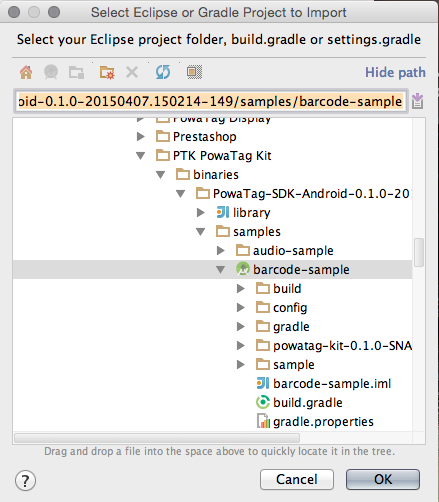
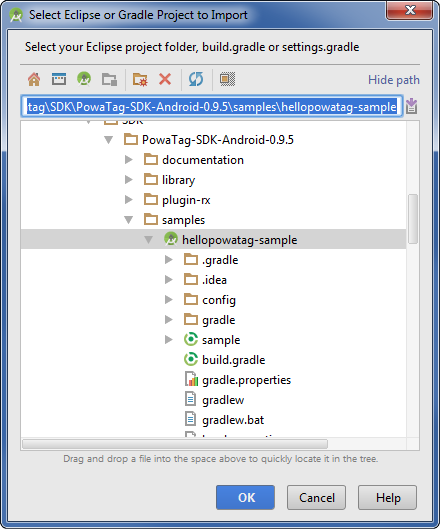
start and act updates 0.9.5

diff --git a/tag-mobile-sdks/ios/acts.md b/tag-mobile-sdks/ios/acts.md
@@ -11,27 +11,101 @@ The "Act Now" functionality provides users with a means to respond to a merchant
  - Book a viewing of a painting at an art gallery.
 
 When a merchant creates an Act campaign they specify the information they require from the user which is then stored as a template on the server. 
-When a user interacts with the PowaTag trigger for the act campaign they are prompted to provide this information which is then sent to the merchant. 
+When a user interacts with the PowaTag trigger for the act campaign they need to be prompted to provide this information which is then sent to the merchant. 
 
-WIP 
-===
+<br/>
 
-# Retrieve the Act
+# Retrieving the Act Data Keys
 
-Obtain the act from the workflow and 
+1. Get the act from the workflow. (see the [Workflow]({{site.baseurl}}/tag-mobile-sdks/android/workflows) for more details):
+
+	<pre>Act act = workflow.getAct();</pre>
+	
+2. Get the act data keys:
+	
+	The data needed to display the custom field to the user is stored in <code>ActDataKey</code> 
+
+	<pre>for (ActDataKey actDataKey : act.getActDataKeys()) {
+		// Retrieve the key identifier for this custom value
+		String key = actDataKey.getKey();
+		
+		// Retrieve the display name of the custom value
+		String name = actDataKey.getName();
+		
+		// Retrieve the data type the must be returned to the SDK. valid types are String, Timestamp, Email,Flag
+		ActDataType actDataType = actDataKey.getType();
+		
+		// Retrieve the optional predefined value to display to the user
+		String value = actDataKey.getPredefinedValue();
+		
+		// Retrieve the flag indicating if this is an optional field
+		boolean optional = actDataKey.isOptional();
+	}</pre>
+
+<br/>
+	
+# Adding an Act Data Value
+
+1. Create a <code>ActTransactionDetails</code>:
+
+	<pre>ActTransactionDetails actTransactionDetails = new ActTransactionDetails();</pre>
+
+2. Add the values supplied by the user for each <code>ActDataKey</code>:
+
+	Values must be added for at least each mandatory act data key.
+	
+	<pre>// Add the user's value as a string
+	actTransactionDetails.addActDataValue(actDataKey, userValueString);</pre>
+	
+<br/>	
+
+# Removing an Act Data Value
+
+1. To remove a stored user value:
+	
+	<pre>boolean valueRemoved = actTransactionDetails.removeActDataValue(actDatakey);</pre>	
+	
+<br/>
+
+# Removing All Act Data Values
+
+1. To clear <code>ActTransactionDetails</code> of all act data values:
+	
+	<pre>actTransactionDetails.clearActDataValues();</pre>	
+	
+<br/>
+
+# Obtaining All Act Data Values
+
+1. To obtain all act data values added to <code>ActTransActionDetails</code>:
+	
+	<pre>Map<String, String> actDataValues = actTransactionDetails.getActDataValues();</pre>	
+	
+<br/>
+		
+# Submit the Act Transaction Details
+
+1. Submit the act transaction details using the <code>ActManager</code>:
+	
+	<pre>ActManager actManager = ActManager.getinstance();
+	// submit the transaction and keep the transaction ID stored in actTransaction
+	ActTransaction actTransaction = actManager.submitTransaction(act, actTransactionDetails,new PowaTagCallback&lt;ActTransaction&gt;());</pre>
+	
+
+<br/>
+
+# Useful Act Methods
+
+1. The following methods can be used to obtian useful act information:
+
+	<pre>// Get the ID of the act.
+	String actId = act.getActId();
+	
+	// Get the name of the act.
+	String actName = act.getName();
  
- 	<pre>Act act = workflow.getAct();
-	for (ActDataKey actDataKey : act.getActDataKeys()) {
-		ActField<?> actField = fieldGenerators.get(actDataKey.getType()).generate(actDataKey);
-		actDataFields.put(actDataKey, actField);
-		actInformationContainer.addView(actField.getView(), layoutParams);
-        }
-    }</pre>
-
-# Present the Act Data Fields to the User
-
-
-# Validate the Data Fields
-
-
-# Submit the Act Transaction
+	// Get the merchant running the act.
+	Merchant merchant = act.getMerchant();
+    
+    // Get the List of act data keys.
+	List<ActDataKey> actDataKeys = act.getActDataKeys();</pre>

diff --git a/tag-mobile-sdks/wp/acts.md b/tag-mobile-sdks/wp/acts.md
@@ -11,27 +11,101 @@ The "Act Now" functionality provides users with a means to respond to a merchant
  - Book a viewing of a painting at an art gallery.
 
 When a merchant creates an Act campaign they specify the information they require from the user which is then stored as a template on the server. 
-When a user interacts with the PowaTag trigger for the act campaign they are prompted to provide this information which is then sent to the merchant. 
+When a user interacts with the PowaTag trigger for the act campaign they need to be prompted to provide this information which is then sent to the merchant. 
 
-WIP 
-===
+<br/>
 
-# Retrieve the Act
+# Retrieving the Act Data Keys
 
-Obtain the act from the workflow and 
+1. Get the act from the workflow. (see the [Workflow]({{site.baseurl}}/tag-mobile-sdks/android/workflows) for more details):
+
+	<pre>Act act = workflow.getAct();</pre>
+	
+2. Get the act data keys:
+	
+	The data needed to display the custom field to the user is stored in <code>ActDataKey</code> 
+
+	<pre>for (ActDataKey actDataKey : act.getActDataKeys()) {
+		// Retrieve the key identifier for this custom value
+		String key = actDataKey.getKey();
+		
+		// Retrieve the display name of the custom value
+		String name = actDataKey.getName();
+		
+		// Retrieve the data type the must be returned to the SDK. valid types are String, Timestamp, Email,Flag
+		ActDataType actDataType = actDataKey.getType();
+		
+		// Retrieve the optional predefined value to display to the user
+		String value = actDataKey.getPredefinedValue();
+		
+		// Retrieve the flag indicating if this is an optional field
+		boolean optional = actDataKey.isOptional();
+	}</pre>
+
+<br/>
+	
+# Adding an Act Data Value
+
+1. Create a <code>ActTransactionDetails</code>:
+
+	<pre>ActTransactionDetails actTransactionDetails = new ActTransactionDetails();</pre>
+
+2. Add the values supplied by the user for each <code>ActDataKey</code>:
+
+	Values must be added for at least each mandatory act data key.
+	
+	<pre>// Add the user's value as a string
+	actTransactionDetails.addActDataValue(actDataKey, userValueString);</pre>
+	
+<br/>	
+
+# Removing an Act Data Value
+
+1. To remove a stored user value:
+	
+	<pre>boolean valueRemoved = actTransactionDetails.removeActDataValue(actDatakey);</pre>	
+	
+<br/>
+
+# Removing All Act Data Values
+
+1. To clear <code>ActTransactionDetails</code> of all act data values:
+	
+	<pre>actTransactionDetails.clearActDataValues();</pre>	
+	
+<br/>
+
+# Obtaining All Act Data Values
+
+1. To obtain all act data values added to <code>ActTransActionDetails</code>:
+	
+	<pre>Map<String, String> actDataValues = actTransactionDetails.getActDataValues();</pre>	
+	
+<br/>
+		
+# Submit the Act Transaction Details
+
+1. Submit the act transaction details using the <code>ActManager</code>:
+	
+	<pre>ActManager actManager = ActManager.getinstance();
+	// submit the transaction and keep the transaction ID stored in actTransaction
+	ActTransaction actTransaction = actManager.submitTransaction(act, actTransactionDetails,new PowaTagCallback&lt;ActTransaction&gt;());</pre>
+	
+
+<br/>
+
+# Useful Act Methods
+
+1. The following methods can be used to obtian useful act information:
+
+	<pre>// Get the ID of the act.
+	String actId = act.getActId();
+	
+	// Get the name of the act.
+	String actName = act.getName();
  
- 	<pre>Act act = workflow.getAct();
-	for (ActDataKey actDataKey : act.getActDataKeys()) {
-		ActField<?> actField = fieldGenerators.get(actDataKey.getType()).generate(actDataKey);
-		actDataFields.put(actDataKey, actField);
-		actInformationContainer.addView(actField.getView(), layoutParams);
-        }
-    }</pre>
-
-# Present the Act Data Fields to the User
-
-
-# Validate the Data Fields
-
-
-# Submit the Act Transaction
+	// Get the merchant running the act.
+	Merchant merchant = act.getMerchant();
+    
+    // Get the List of act data keys.
+	List<ActDataKey> actDataKeys = act.getActDataKeys();</pre>

diff --git a/tag-mobile-sdks/android/acts.md b/tag-mobile-sdks/android/acts.md
@@ -52,7 +52,7 @@ When a user interacts with the PowaTag trigger for the act campaign they need to
 
 2. Add the values supplied by the user for each <code>ActDataKey</code>:
 
-	Values must be added for each mandatory act data key.
+	Values must be added for at least each mandatory act data key.
 	
 	<pre>// Add the user's value as a string
 	actTransactionDetails.addActDataValue(actDataKey, userValueString);</pre>
@@ -69,13 +69,13 @@ When a user interacts with the PowaTag trigger for the act campaign they need to
 
 # Removing All Act Data Values
 
-1. To clear <code>ActTransActionDetails</code> of all act data values:
+1. To clear <code>ActTransactionDetails</code> of all act data values:
 	
 	<pre>actTransactionDetails.clearActDataValues();</pre>	
 	
 <br/>
 
-# Obtaining all Act Data Values
+# Obtaining All Act Data Values
 
 1. To obtain all act data values added to <code>ActTransActionDetails</code>:
 	

diff --git a/tag-mobile-sdks/android/start.md b/tag-mobile-sdks/android/start.md
@@ -79,9 +79,6 @@ During development you need to use a non-production endpoint and for this a seco
 	
 <br/>	
 
-        
-BART to provide code snippet for using builder to initialise
-==================================
 
 # Importing The Sample App
 
@@ -91,7 +88,7 @@ You can experiment with the SDK features by importing the app into an Android St
 
 1. Go to Android Studio \| New \| Import Project
 
-2. Navigate to the folder where you unpacked the SDK, open the samples folder, and choose the sample project you want to import. In this example, we choose the barcode-sample project. Click OK to open it.
+2. Navigate to the folder where you unpacked the SDK, open the samples folder, and choose the hellopowatag-sample project to import. Click OK to open it.
 
     <img src="{{ '/images/powatag_mobile_sdks_android_start_import.png' | prepend: site.baseurl }}" height="400" />
 

diff --git a/tag-mobile-sdks/wp/start.md b/tag-mobile-sdks/wp/start.md
@@ -54,7 +54,7 @@ The **HelloPowaTagSample** app is included with the SDK to provide you with exam
 
 You can experiment with the SDK features by importing the app into into Visual Studio.
 
-The samples have a project dependency rather than a central repository dependency via NuGet. This is so that when a local copy of the SDK gets updates, the samples reflect the changes.
+The sample has a project dependency rather than a central repository dependency via NuGet. This is so that when a local copy of the SDK gets updates, the samples reflect the changes.
 
 <br />
 

diff --git a/tag-mobile-sdks/ios/start.md b/tag-mobile-sdks/ios/start.md
@@ -75,7 +75,7 @@ You can experiment with the SDK features by importing the app into Xcode.
 
 1. Go to Xcode \| File \| Open
 
-2. Navigate to the folder where you unpacked the SDK, open the Samples folder, and choose the sample project you want to import. In this example, we choose the BarcodeSample project. Click OK to open it.
+2. Navigate to the folder where you unpacked the SDK, open the Samples folder, and choose the HelloPowaTagSample project. Click OK to open it.
 
 3. Build the sample project.
 
